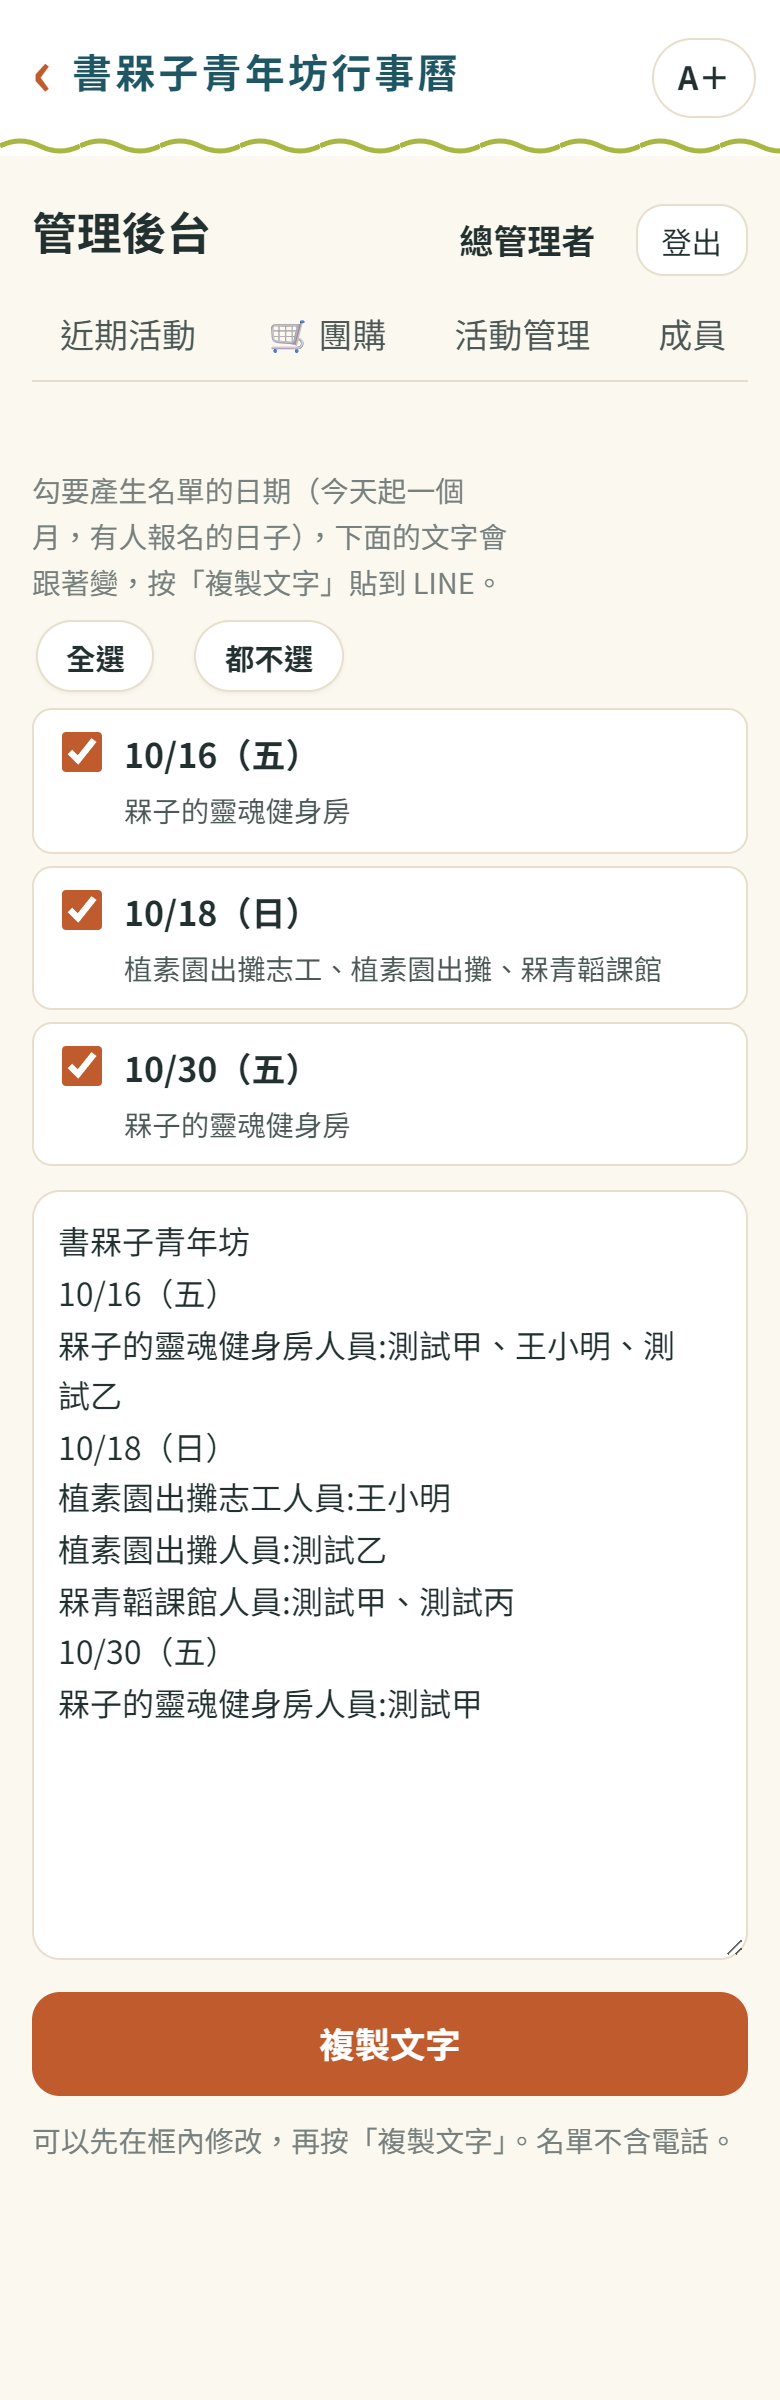
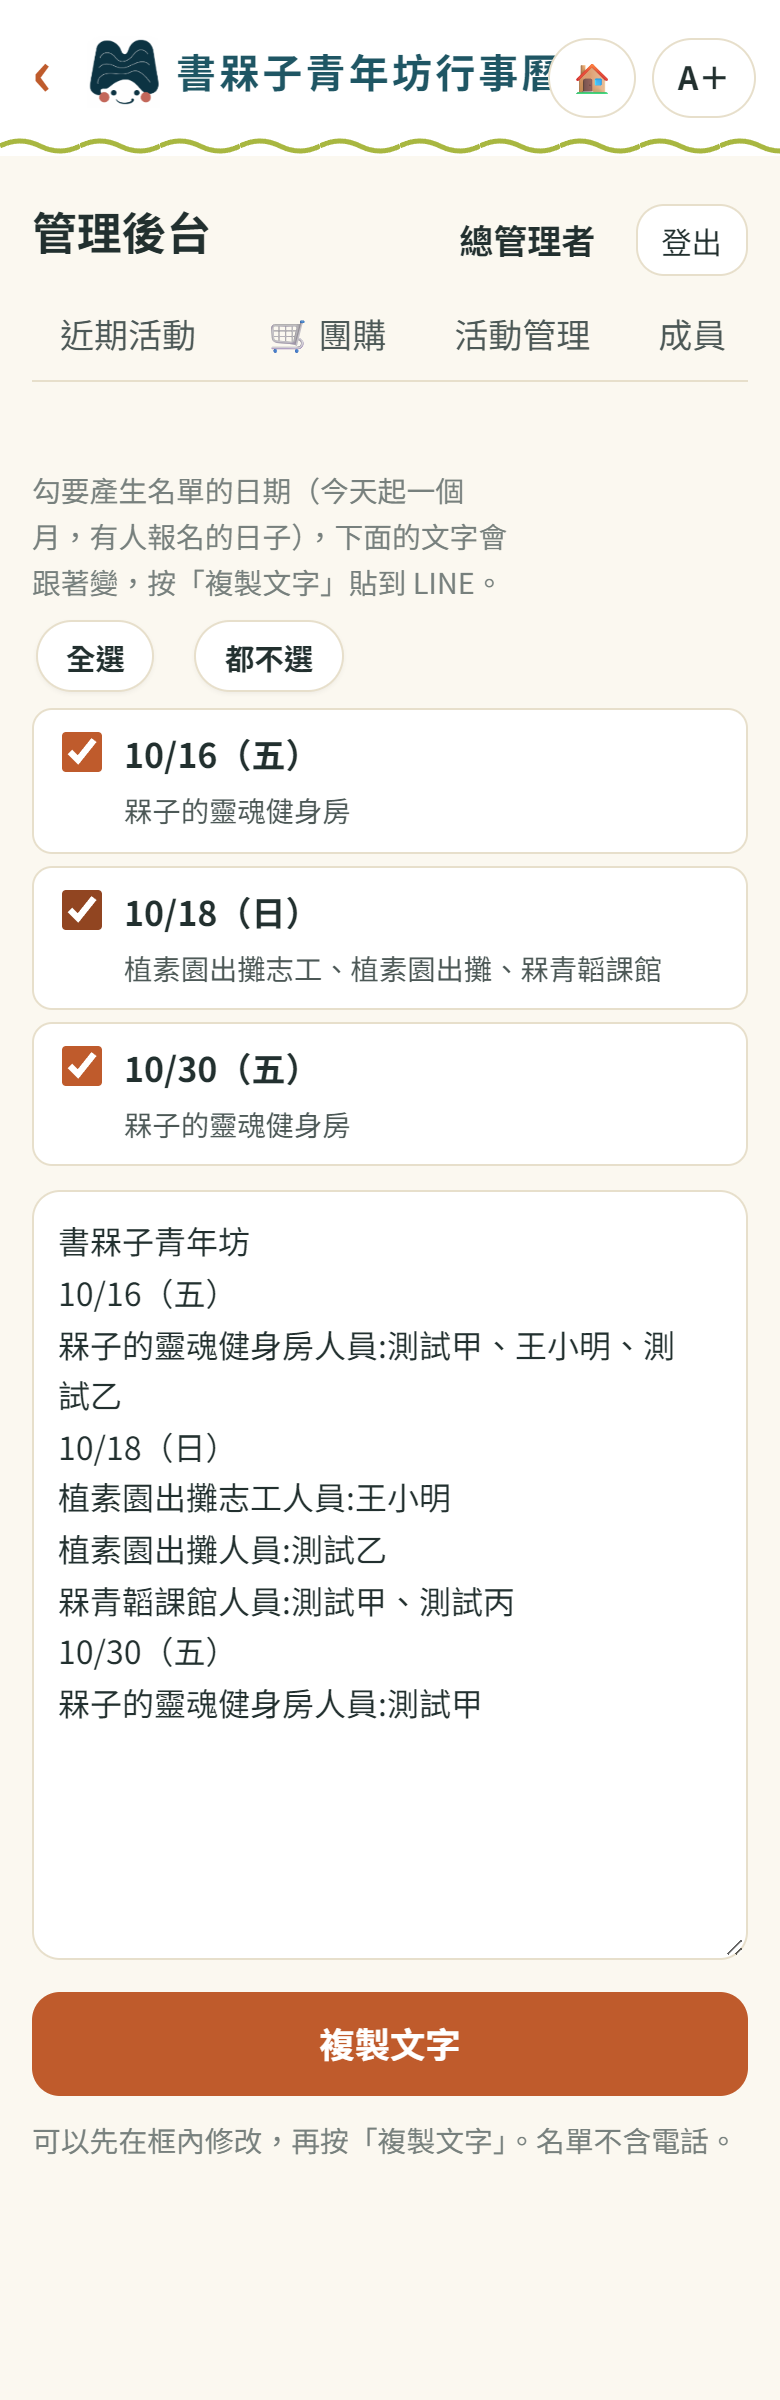
行事曆頁首加書槑子標誌、加「回首頁」（官網）按鈕；拿掉最下面的逛逛官網按鈕；常見問題加怎麼回官網

Changed region(s): [[0.0923, 0.0, 0.7077, 0.0625], [0.0615, 0.3438, 0.1231, 0.4062], [0.7385, 0.0, 0.7692, 0.0625]]

diff --git a/index.html b/index.html
@@ -19,7 +19,7 @@
   <link rel="preconnect" href="https://fonts.googleapis.com">
   <link rel="preconnect" href="https://fonts.gstatic.com" crossorigin>
   <link href="https://fonts.googleapis.com/css2?family=Noto+Sans+TC:wght@400;500;700;900&display=swap" rel="stylesheet">
-  <link rel="stylesheet" href="css/app.css?v=20261014a">
+  <link rel="stylesheet" href="css/app.css?v=20261014c">
   <script>try { var t = localStorage.getItem('shumeizi:text-size'); if (t === 'l' || t === 'xl') document.documentElement.classList.add('text-' + t); } catch (e) {}</script>
 </head>
 <body class="splash-on">
@@ -30,7 +30,8 @@
     <p class="splash-title" data-splash-title></p>
   </div>
   <header class="app-header">
-    <a class="app-title" href="#/"><span class="header-back" aria-hidden="true">‹</span><span data-site="name">書槑子青年坊行事曆</span></a>
+    <a class="app-title" href="#/"><span class="header-back" aria-hidden="true">‹</span><img class="app-logo" src="icons/logo-head.png?v=20261014" alt="" width="36" height="36"><span data-site="name">書槑子青年坊行事曆</span></a>
+    <a class="home-btn" id="home-btn" aria-label="回首頁（書槑子官網）" hidden><span aria-hidden="true">🏠</span><span class="home-btn-text">回首頁</span></a>
     <button type="button" class="text-size-btn" id="text-size" aria-label="字體大小">A＋</button>
   </header>
 
@@ -100,7 +101,6 @@
   </main>
 
   <footer class="app-footer">
-    <a class="btn homepage-link" id="homepage-link" target="_blank" rel="noopener" hidden>🌐 逛逛書槑子官網</a>
     <a href="#/admin">管理者</a>
   </footer>
 
@@ -116,52 +116,52 @@
   <script src="https://cdn.jsdelivr.net/npm/fullcalendar@6.1.21/index.global.min.js"></script>
   <script src="https://cdn.jsdelivr.net/npm/@fullcalendar/core@6.1.21/locales/zh-tw.global.min.js"></script>
   <!-- 改了 js、css 後把 ?v= 的日期換新，手機才不會用到舊的檔案（GitHub Pages 會快取 10 分鐘） -->
-  <script src="js/site.js?v=20261014a"></script>
-  <script src="js/config.js?v=20261014a"></script>
-  <script src="js/api.js?v=20261014a"></script>
-  <script src="js/format.js?v=20261014a"></script>
-  <script src="js/lunar-util.js?v=20261014a"></script>
-  <script src="js/date-list.js?v=20261014a"></script>
-  <script src="js/share.js?v=20261014a"></script>
-  <script src="js/addcal.js?v=20261014a"></script>
-  <script src="js/duty-cache.js?v=20261014a"></script>
-  <script src="js/calendar.js?v=20261014a"></script>
-  <script src="js/confirm.js?v=20261014a"></script>
-  <script src="js/reschedule.js?v=20261014a"></script>
-  <script src="js/meal.js?v=20261014a"></script>
-  <script src="js/signup.js?v=20261014a"></script>
-  <script src="js/duty-images.js?v=20261014a"></script>
-  <script src="js/roster-grid.js?v=20261014a"></script>
-  <script src="js/grid-page.js?v=20261014a"></script>
-  <script src="js/duty.js?v=20261014a"></script>
-  <script src="js/mine.js?v=20261014a"></script>
-  <script src="js/venue.js?v=20261014a"></script>
-  <script src="js/push.js?v=20261014a"></script>
-  <script src="js/admin.js?v=20261014a"></script>
-  <script src="js/admin-pages.js?v=20261014a"></script>
-  <script src="js/draft-editor.js?v=20261014a"></script>
-  <script src="js/admin-duties.js?v=20261014a"></script>
-  <script src="js/admin-accounts.js?v=20261014a"></script>
-  <script src="js/import-parse.js?v=20261014a"></script>
-  <script src="js/admin-import.js?v=20261014a"></script>
-  <script src="js/admin-people.js?v=20261014a"></script>
-  <script src="js/stats-calc.js?v=20261014a"></script>
-  <script src="js/edu-stats.js?v=20261014a"></script>
-  <script src="js/admin-goals.js?v=20261014a"></script>
-  <script src="js/admin-venue.js?v=20261014a"></script>
-  <script src="js/admin-push.js?v=20261014a"></script>
-  <script src="js/admin-shop.js?v=20261014a"></script>
-  <script src="js/admin-stock.js?v=20261014a"></script>
-  <script src="js/shop.js?v=20261014a"></script>
-  <script src="js/tutorial.js?v=20261014a"></script>
-  <script src="js/help.js?v=20261014a"></script>
-  <script src="js/rollcall.js?v=20261014a"></script>
-  <script src="js/stats-export.js?v=20261014a"></script>
-  <script src="js/repair.js?v=20261014a"></script>
-  <script src="js/member-stats.js?v=20261014a"></script>
-  <script src="js/admin-stats.js?v=20261014a"></script>
-  <script src="js/history-parse.js?v=20261014a"></script>
-  <script src="js/admin-history.js?v=20261014a"></script>
-  <script src="js/app.js?v=20261014a"></script>
+  <script src="js/site.js?v=20261014c"></script>
+  <script src="js/config.js?v=20261014c"></script>
+  <script src="js/api.js?v=20261014c"></script>
+  <script src="js/format.js?v=20261014c"></script>
+  <script src="js/lunar-util.js?v=20261014c"></script>
+  <script src="js/date-list.js?v=20261014c"></script>
+  <script src="js/share.js?v=20261014c"></script>
+  <script src="js/addcal.js?v=20261014c"></script>
+  <script src="js/duty-cache.js?v=20261014c"></script>
+  <script src="js/calendar.js?v=20261014c"></script>
+  <script src="js/confirm.js?v=20261014c"></script>
+  <script src="js/reschedule.js?v=20261014c"></script>
+  <script src="js/meal.js?v=20261014c"></script>
+  <script src="js/signup.js?v=20261014c"></script>
+  <script src="js/duty-images.js?v=20261014c"></script>
+  <script src="js/roster-grid.js?v=20261014c"></script>
+  <script src="js/grid-page.js?v=20261014c"></script>
+  <script src="js/duty.js?v=20261014c"></script>
+  <script src="js/mine.js?v=20261014c"></script>
+  <script src="js/venue.js?v=20261014c"></script>
+  <script src="js/push.js?v=20261014c"></script>
+  <script src="js/admin.js?v=20261014c"></script>
+  <script src="js/admin-pages.js?v=20261014c"></script>
+  <script src="js/draft-editor.js?v=20261014c"></script>
+  <script src="js/admin-duties.js?v=20261014c"></script>
+  <script src="js/admin-accounts.js?v=20261014c"></script>
+  <script src="js/import-parse.js?v=20261014c"></script>
+  <script src="js/admin-import.js?v=20261014c"></script>
+  <script src="js/admin-people.js?v=20261014c"></script>
+  <script src="js/stats-calc.js?v=20261014c"></script>
+  <script src="js/edu-stats.js?v=20261014c"></script>
+  <script src="js/admin-goals.js?v=20261014c"></script>
+  <script src="js/admin-venue.js?v=20261014c"></script>
+  <script src="js/admin-push.js?v=20261014c"></script>
+  <script src="js/admin-shop.js?v=20261014c"></script>
+  <script src="js/admin-stock.js?v=20261014c"></script>
+  <script src="js/shop.js?v=20261014c"></script>
+  <script src="js/tutorial.js?v=20261014c"></script>
+  <script src="js/help.js?v=20261014c"></script>
+  <script src="js/rollcall.js?v=20261014c"></script>
+  <script src="js/stats-export.js?v=20261014c"></script>
+  <script src="js/repair.js?v=20261014c"></script>
+  <script src="js/member-stats.js?v=20261014c"></script>
+  <script src="js/admin-stats.js?v=20261014c"></script>
+  <script src="js/history-parse.js?v=20261014c"></script>
+  <script src="js/admin-history.js?v=20261014c"></script>
+  <script src="js/app.js?v=20261014c"></script>
 </body>
 </html>

diff --git a/css/app.css b/css/app.css
@@ -66,6 +66,9 @@ a { color: var(--accent); }
 }
 
 .app-title {
+  display: inline-flex;
+  align-items: center;
+  gap: 8px;
   font-family: var(--serif);
   font-weight: 700;
   font-size: 1.25rem;
@@ -2155,6 +2158,11 @@ html.text-l { font-size: 112.5%; }
 html.text-xl { font-size: 125%; }
 .text-size-btn { position: absolute; right: 12px; top: 50%; transform: translateY(-50%); min-height: 40px; min-width: 52px; padding: 0 10px; border: 1px solid var(--line); border-radius: 999px; background: var(--card); color: var(--ink); font: inherit; font-weight: 700; font-size: 1rem; cursor: pointer; }
 .app-header { position: relative; }
+/* 頁首「回首頁」（官網），在 A＋ 左邊；窄手機只留 🏠 */
+.home-btn { position: absolute; right: 72px; top: 50%; transform: translateY(-50%); display: inline-flex; align-items: center; justify-content: center; gap: 4px; min-height: 40px; min-width: 44px; padding: 0 10px; border: 1px solid var(--line); border-radius: 999px; background: var(--card); color: var(--ink); font-weight: 700; font-size: 1rem; text-decoration: none; }
+.home-btn[hidden] { display: none; }
+body.splash-on .home-btn { visibility: hidden; }
+@media (max-width: 520px) { .home-btn-text { display: none; } .home-btn { padding: 0; } }
 body.splash-on .text-size-btn { visibility: hidden; }
 .push-auto { border-color: #c58a1b; }
 .push-auto-days { display: flex; flex-wrap: wrap; gap: 4px 14px; margin: 8px 0; }
@@ -2480,8 +2488,6 @@ span.shop-thumb { cursor: default; }
 .shop-stats .shop-profit { grid-column: 1 / -1; }
 .shop-stats .shop-profit .stat-hint { white-space: normal; }
 /* 官網按鈕（行事曆最下面） */
-.app-footer .homepage-link { text-decoration: none; display: flex; align-items: center; justify-content: center; margin: 4px 0 14px; font-size: 1rem; font-weight: 700; color: var(--teal); border-color: var(--olive); background: var(--card); }
-body.is-sub .homepage-link { display: none; }
 
 /* ===== 團購改版（像愛+1）：商城格子、商品頁、購物車、我的訂單、下方分頁列 ===== */
 .shop-page { padding-bottom: calc(84px + env(safe-area-inset-bottom)); }
@@ -2801,3 +2807,7 @@ body.is-sub .homepage-link { display: none; }
 .year-check small { display: block; color: var(--muted); margin-top: 2px; }
 .year-check.is-warn { border-color: var(--accent); background: var(--accent-soft); }
 .year-bal td .input { width: 8em; }
+
+/* 頁首標題左邊的書槑子標誌（2026/10/14） */
+.app-logo { width: 36px; height: 36px; flex: none; object-fit: contain; mix-blend-mode: multiply; }
+@media (max-width: 380px) { .app-logo { width: 30px; height: 30px; } .app-title { gap: 6px; } }

diff --git a/js/app.js b/js/app.js
@@ -135,7 +135,7 @@
       const bg = splash.querySelector('.splash-bg');
       const logo = splash.querySelector('.splash-logo');
       const title = splash.querySelector('[data-splash-title]');
-      const header = document.querySelector('.app-title');
+      const header = document.querySelector('.app-title [data-site="name"]') || document.querySelector('.app-title'); // 落在名稱上（左邊有標誌）
       const chars = [...SITE_NAME];
       title.innerHTML = chars.map((c) => `<span>${c}</span>`).join('');
       // 等字型載入再量寬度（最多 0.3 秒，這段時間畫面只是底色），名稱才會剛好置中、落點剛好對齊頁首
@@ -227,9 +227,9 @@
     document.querySelectorAll('[data-site]').forEach((el) => { if (S[el.dataset.site]) el.textContent = S[el.dataset.site]; });
     // data-site-tpl：整段文字的範本，{venue} 這類換成設定（只換文字，不拆開元素，排版不變）
     document.querySelectorAll('[data-site-tpl]').forEach((el) => { el.textContent = el.dataset.siteTpl.replace(/\{(\w+)\}/g, (m, k) => S[k] || ''); });
-    // 官網按鈕（行事曆最下面）：有設定 SITE.homepage 才顯示
-    const home = document.getElementById('homepage-link');
-    if (home && S.homepage) { home.href = S.homepage; home.hidden = false; }
+    // 頁首「回首頁」：首頁就是官網（2026/10/14）
+    const homeBtn = document.getElementById('home-btn');
+    if (homeBtn && S.homepage) { homeBtn.href = S.homepage; homeBtn.hidden = false; }
     document.querySelectorAll('[data-site-cat]').forEach((el) => { el.textContent = Fmt.catLabel(el.dataset.siteCat); });
     document.querySelectorAll('[data-feature]').forEach((el) => { if (S.features && S.features[el.dataset.feature] === false) el.hidden = true; });
   }

diff --git a/js/site.js b/js/site.js
@@ -5,7 +5,7 @@
     name: '書槑子青年坊行事曆',        // 網站名稱（標題列、主畫面圖示名稱、通知）
     shortName: '書槑子行事曆',         // 主畫面圖示下面的短名稱
     org: '書槑子青年坊',              // 團體名稱（名單開頭、缺人通知）
-    homepage: 'https://bailixiao.github.io/shumeizi/', // 官網（2026/10/10 換成新官網，原始碼在另一個專案「書槑子官網」；行事曆最下面的「逛逛官網」按鈕；空白＝不顯示）
+    homepage: 'https://bailixiao.github.io/shumeizi/', // 官網（2026/10/10 換成新官網，原始碼在另一個專案「書槑子官網」；行事曆最下面的「頁首「回首頁」按鈕；空白＝不顯示）
     venue: '場地',                    // 可以借的場地名稱（書槑子目前不借場地，features.venue＝false）
     temple: '佛堂',                   // 「佛堂」這個用詞（書槑子不用，features.temple＝false 時整個藏起來）
     // 類別顯示的名字（內部代號不變：勤務＝志工排班，有項目＋名額、會算缺人；道務、教育、植素＝一般活動，自由參加不算缺人）

diff --git a/tools/make-icons.js b/tools/make-icons.js
@@ -40,7 +40,8 @@ const jobs = [
   [path.join(ROOT, 'icons', 'icon-192.png'), { size: 192, crop: 'full', pad: 0.92, round: true, bg: '#ffffff' }],
   [path.join(ROOT, 'icons', 'icon-maskable-512.png'), { size: 512, crop: 'full', pad: 0.72, round: false, bg: '#ffffff' }],
   [path.join(ROOT, 'icons', 'apple-touch-icon.png'), { size: 180, crop: 'full', pad: 0.86, round: false, bg: '#ffffff' }],
-  [path.join(ROOT, 'icons', 'favicon-32.png'), { size: 32, crop: 'head', pad: 1, round: false, bg: 'transparent' }]
+  [path.join(ROOT, 'icons', 'favicon-32.png'), { size: 32, crop: 'head', pad: 1, round: false, bg: 'transparent' }],
+  [path.join(ROOT, 'icons', 'logo-head.png'), { size: 96, crop: 'head', pad: 1, round: false, bg: 'transparent' }] // 頁首標題左邊的小標誌
 ];
 if (SITE_IMG) {
   jobs.push([path.join(SITE_IMG, 'logo.png'), { size: 600, crop: 'full', pad: 1, round: false, bg: 'transparent' }]);

diff --git a/docs/spec.md b/docs/spec.md
@@ -13,7 +13,7 @@
 ### 0.1 團體與目標
 - **書槑子青年坊**：青年自發的平台（讀書會 × 活動 × 課程 × 志工），標語「用我們的筆 寫出我們的故事」。
 - 現有網站（Webnode）沒有報名功能，聯絡靠官方 LINE。本系統讓大家看行事曆、報名、幫朋友報名；上線後在 Webnode 放「看行事曆、報名」按鈕連過來（等官網管理者處理）。
-- 行事曆最下面有「🌐 逛逛書槑子官網」按鈕（另開分頁；網址在 js/site.js 的 `SITE.homepage`，空白就不顯示）。
+- 頁首標題左邊有書槑子標誌；A＋ 左邊有「🏠 回首頁」按鈕，首頁＝書槑子官網（同一頁打開；網址在 js/site.js 的 `SITE.homepage`，空白就不顯示；窄手機只顯示 🏠）。行事曆最下面原本的「逛逛書槑子官網」按鈕拿掉了（2026/10/14）。
 - 對象是青年：畫面明亮、活潑、有青春感，用詞口語輕鬆（可多一點表情符號，例：「我要去！」「幫朋友報名」）。
 - 網址：`https://bailixiao.github.io/shumeizi-calendar/`（公開儲存庫 `shumeizi-calendar`）；Cloudflare Worker 名稱 `shumeizi-api`。
 
